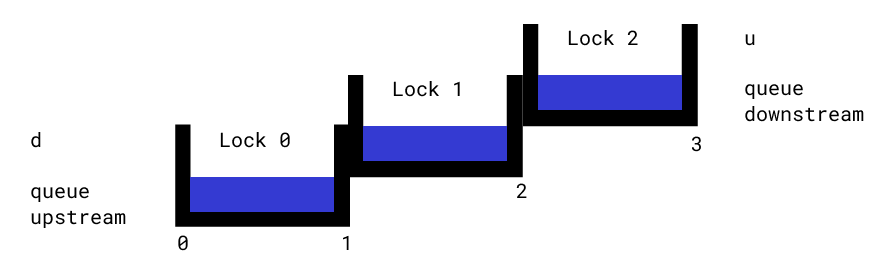
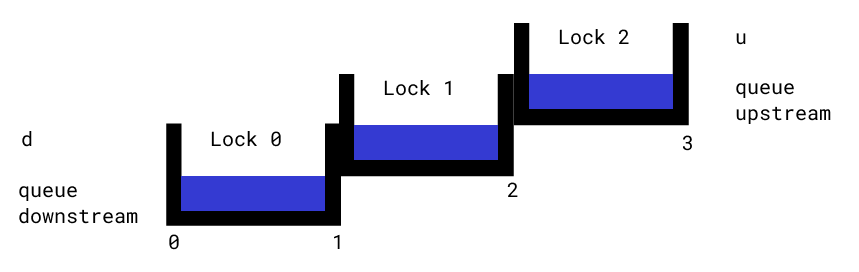
Fixed incorrect naming of queues

diff --git a/README.md b/README.md
@@ -34,8 +34,8 @@ El componente principal del sistema de control del canal es el estado. Este es u
 ¿Pero qué es cada cosa?
 - **locks**: Lista de 3 posiciones, una para cada esclusa (0,1,2) como están en el diagrama. Si hay algún barco en la esclusa, aparece su nombre en la posición correspondiente.
 - **locks_water_level**: Lista de 3 posiciones, una para cada esclusa (0,1,2) como están en el diagrama. Representan el nivel del agua en dicha esclusa. Hay 4 opciones de nivel, *high*, *low*, *draining*, *filling*.
-- **queue_upstream**: Lista. Contiene los barcos esperando para entrar al canal desde el punto más bajo del canal. Es *upstream* porque tiene que recorrer el canal en esa dirección.
-- **queue_downstream**: Lista. Contiene los barcos esperando para entrar al canal desde el punto más alto del canal. Es *downstream* porque tiene que recorrer el canal en esa dirección.
+- **queue_upstream**: Lista. Contiene los barcos esperando para entrar al canal desde el punto más alto, *upstream*, del canal.
+- **queue_downstream**: Lista. Contiene los barcos esperando para entrar al canal desde el punto más bajo, *downstream*, del canal.
 - **gates**: Lista de 4 posiciones, una para cada compuerta (0,1,2,3). La 0 es entre el punto más bajo del canal y la esclusa 1, la 1 es entre la esclusa 1 y la 2, la 2 es entre la esclusa 2 y la 3, y la 3 es entre la esclusa 3 y el punto más alto del canal. Si la compuerta está abierta, el valor es True, si está cerrada, el valor es False.
 - **direction**: Dirección en la que está operando el canal. Puede tomar dos valores, *upstream* y *downstream*.
 - **control**: Lista de comandos a ser ejecutados por el control. Se va a explicar más en la fase I.
@@ -44,7 +44,7 @@ El componente principal del sistema de control del canal es el estado. Este es u
 ### Fase I: Ejecutar comandos de control pendientes
 
 Antes, tenemos que entender que es el control, una de las partes principales del estado. El control es una lista de tuplas de la forma `(<tiempo>, <comando>)`, que simulan acciones que llevan tiempo, y el programa debe actualizar el estado del canal cuando dichas acciones se completan. El *tiempo* es simplemente un entero que representa la cuenta regresiva hasta necesitar ejecutar el comando. En la fase I, se ejecutan comandos cuyo tiempo es 0. Al ejecutarlos se eliminan de la lista de control ¿Pero que tipos de comandos hay?
-1. **Comando move**: Este tiene la forma de `"move <origen> <destino>"`. Este comando representa la finalización del movimiento de un barco, y al ejecutarse mueve el nombre del barco de `<origen>` a `<destino>` y cierra (`False`) la compuerta entre origen y destino. Por ejemplo, el comando `"move qu 0"` mueve el barco de la fila río abajo, es decir saca el primer elemento de *queue_upstream* (recuerden que el nombre está dado por la dirección a recorrer y no el lugar donde están) y lo pone en la esclusa 0.Además, cierra la compuerta 0.
+1. **Comando move**: Este tiene la forma de `"move <origen> <destino>"`. Este comando representa la finalización del movimiento de un barco, y al ejecutarse mueve el nombre del barco de `<origen>` a `<destino>` y cierra (`False`) la compuerta entre origen y destino. Por ejemplo, el comando `"move qd 0"` mueve el barco de la fila río abajo, es decir saca el primer elemento de *queue_upstream* (recuerden que el nombre está dado por la dirección a recorrer y no el lugar donde están) y lo pone en la esclusa 0.Además, cierra la compuerta 0.
 
 2. **Comando level**: Este tiene la forma de `"level <esclusa> <nivel>"`. Este comando representa la finalización de un cambio de nivel en una esclusa, y al ejecutarse cambia el nivel de la esclusa referida al nivel deseado. Por ejemplo, el comando `"level 1 high"` setea el nivel de la esclusa 1 en *high*.
 
@@ -71,17 +71,17 @@ Además, los barcos no pueden retroceder, es decir, moverse en una dirección op
 
 ### Fase III: Mover barcos al canal desde las filas
 
-Finalmente, el programa ve si hay barcos que quieren entrar al canal. Obviamente, tiene que estar el canal abierto. Si la dirección es *upstream*, debo chequear si hay barcos en la fila, *queue_upstream*. En caso de que haya:
+Finalmente, el programa ve si hay barcos que quieren entrar al canal. Obviamente, tiene que estar el canal abierto. Si la dirección es *upstream*, debo chequear si hay barcos en la fila, *queue_downstream* (*downstream* porque ingresan desde río abajo). En caso de que haya:
 - Si la esclusa 0 está ocupada por un barco no hago nada.
 - Si la esclusa 0 está *draining* o *filling* tampoco hago nada.
 - Si la esclusa 0 está *high* debo bajar su nivel a *low*. Esto se hace igual que con las esclusas, setear el nivel a *draining* y agregar el comando `(10, level 0 low)`.
-- Si la esclusa está *low*, puedo entrar al canal. Esto se hace abriendo la compuerta 0 y agregando el comando correspondiente, `(2, "move qu 0")`.
+- Si la esclusa está *low*, puedo entrar al canal. Esto se hace abriendo la compuerta 0 y agregando el comando correspondiente, `(2, "move qd 0")`.
 
-En el caso de dirección *downstream*, es muy parecido. Si hay barcos en la fila, *queue_downstream*:
+En el caso de dirección *downstream*, es muy parecido. Si hay barcos en la fila, *queue_upstream* (*upstream* porque ingresan desde río arriba):
 - Si la esclusa 2 está ocupada por un barco no hago nada.
 - Si la esclusa 2 está *draining* o *filling* tampoco hago nada.
 - Si la esclusa 2 está *low* debo subir su nivel a *high*. Esto se hace igual que con las esclusas, setear el nivel a *filling* y agregar el comando `(10, level 2 high)`.
-- Si la esclusa está *high*, puedo entrar al canal. Esto se hace abriendo la compuerta 3 y agregando el comando correspondiente, `(2, "move qd 2")`.
+- Si la esclusa está *high*, puedo entrar al canal. Esto se hace abriendo la compuerta 3 y agregando el comando correspondiente, `(2, "move qu 2")`.
 
 
 ## Entrevista a empleados
